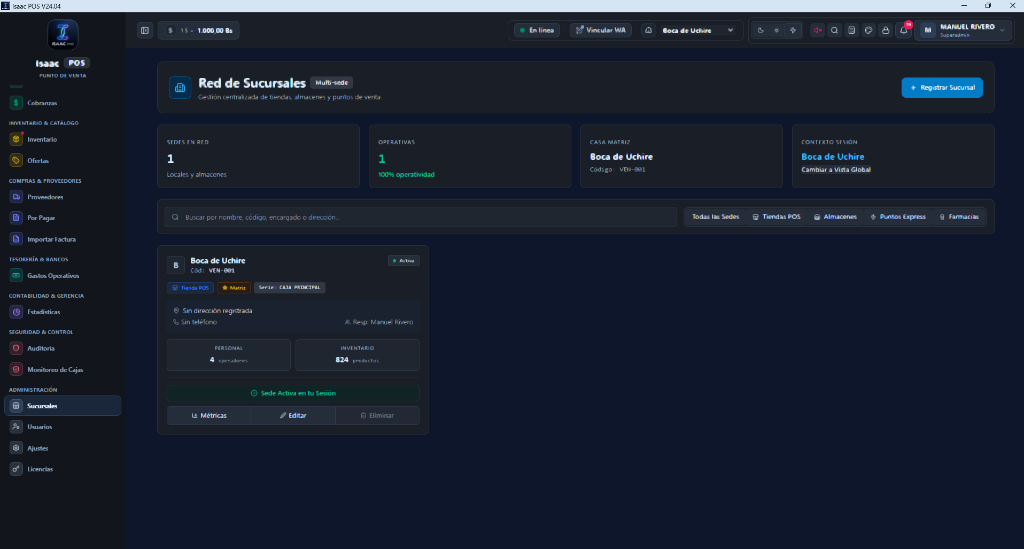
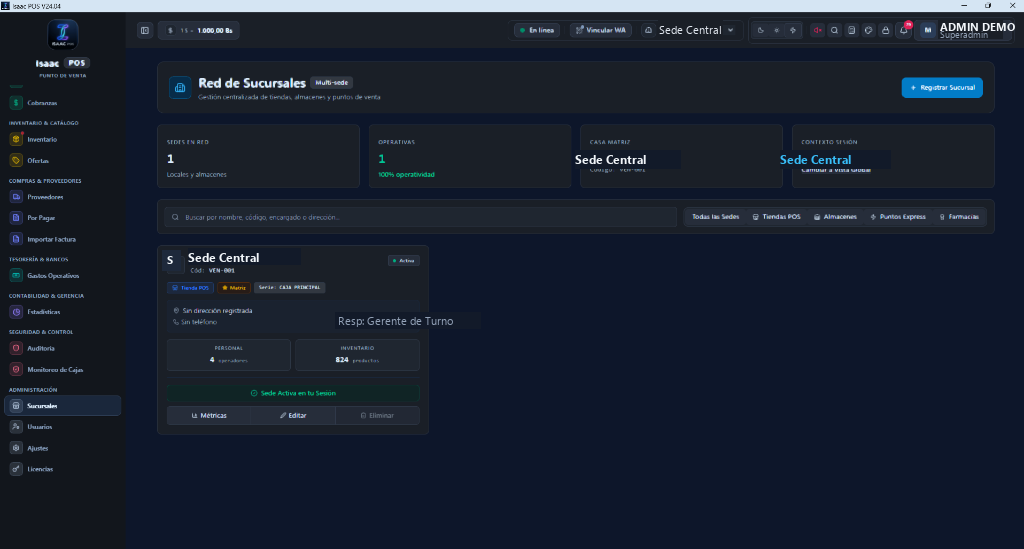
fix(privacy): sanitize screenshots and components with mock demo data
Replace personal identifiers, contact numbers, and store names across all
system screenshots and UI components with mock demo information to protect
privacy and confidentiality.

diff --git a/src/components/Testimonials.tsx b/src/components/Testimonials.tsx
@@ -18,9 +18,9 @@ interface Testimonial {
 
 const TESTIMONIALS: Testimonial[] = [
   {
-    name: "Carlos Sigfrido",
+    name: "Carlos Mendoza",
     role: "Propietario Fundador",
-    business: "Bodega & Minimarket Sigfrido",
+    business: "Minimarket & Víveres El Trébol",
     city: "Caracas",
     category: "Minimarket y Víveres",
     icon: Store,

diff --git a/src/components/LiveSocialProof.tsx b/src/components/LiveSocialProof.tsx
@@ -15,7 +15,7 @@ interface SocialProofEvent {
 const EVENTS: SocialProofEvent[] = [
   {
     id: 1,
-    merchant: "Bodega Sigfrido",
+    merchant: "Minimarket El Trébol",
     city: "Caracas",
     action: "activó el Plan Profesional (3 Cajas)",
     timeAgo: "Hace 4 min",
